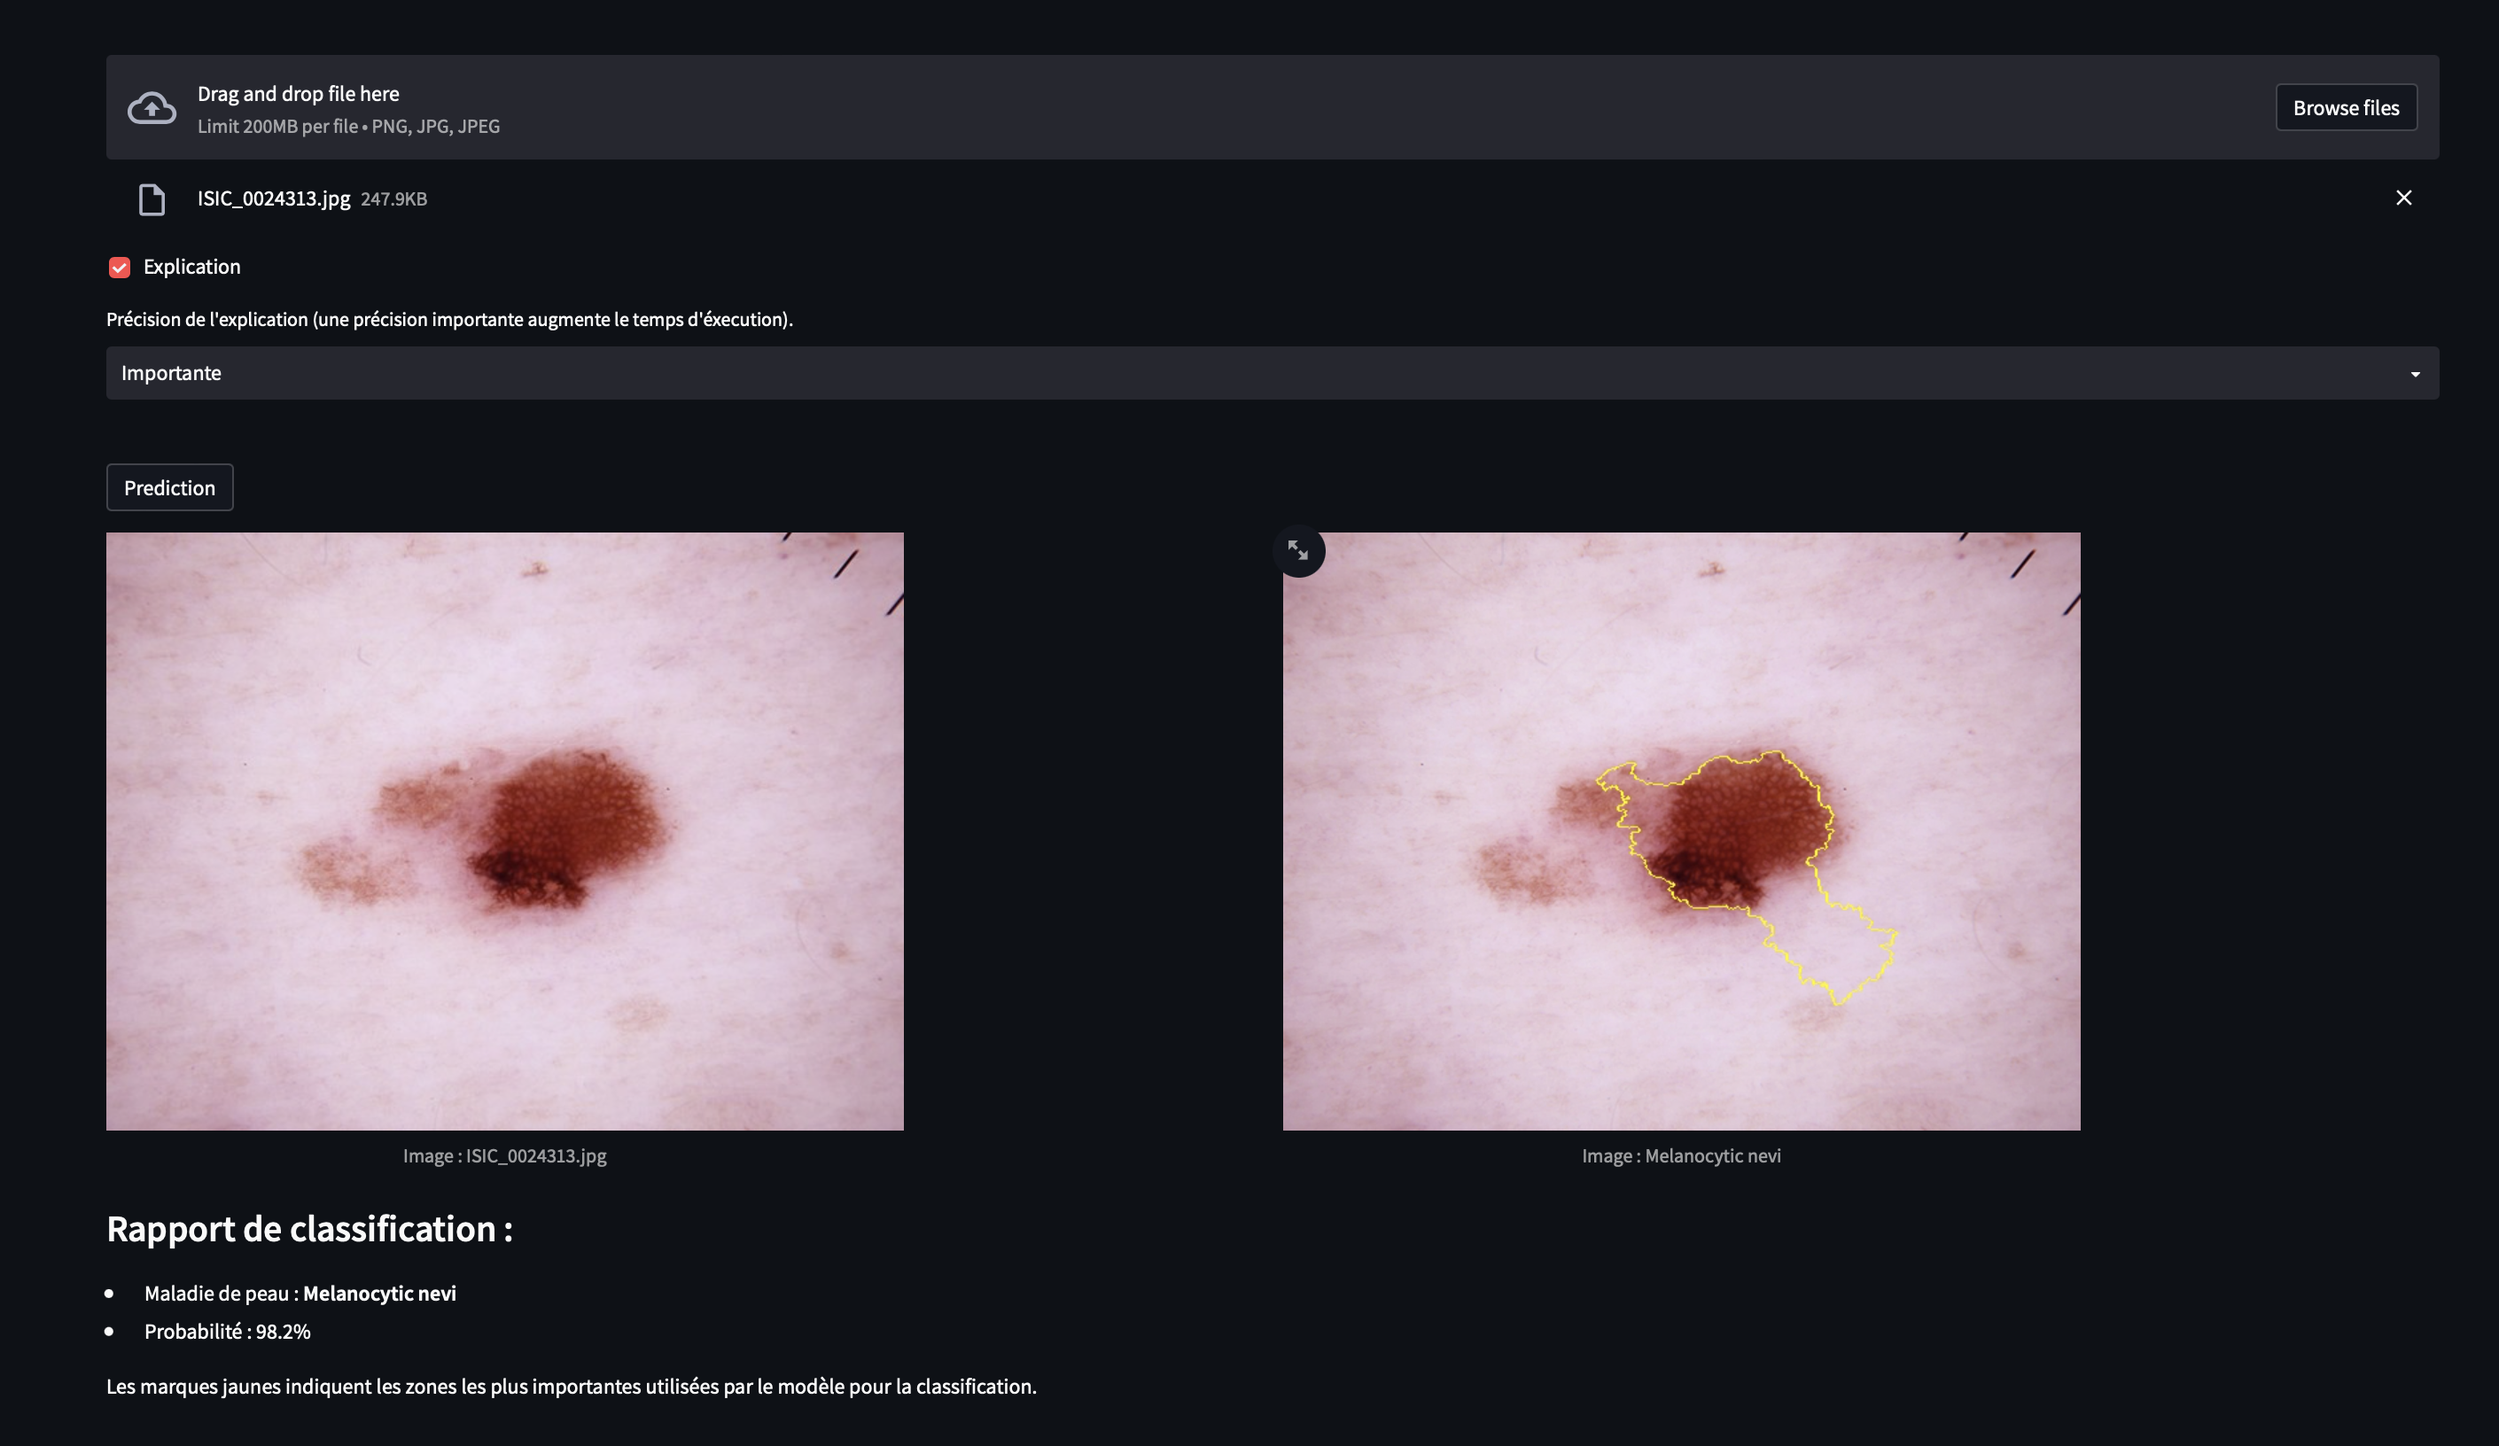
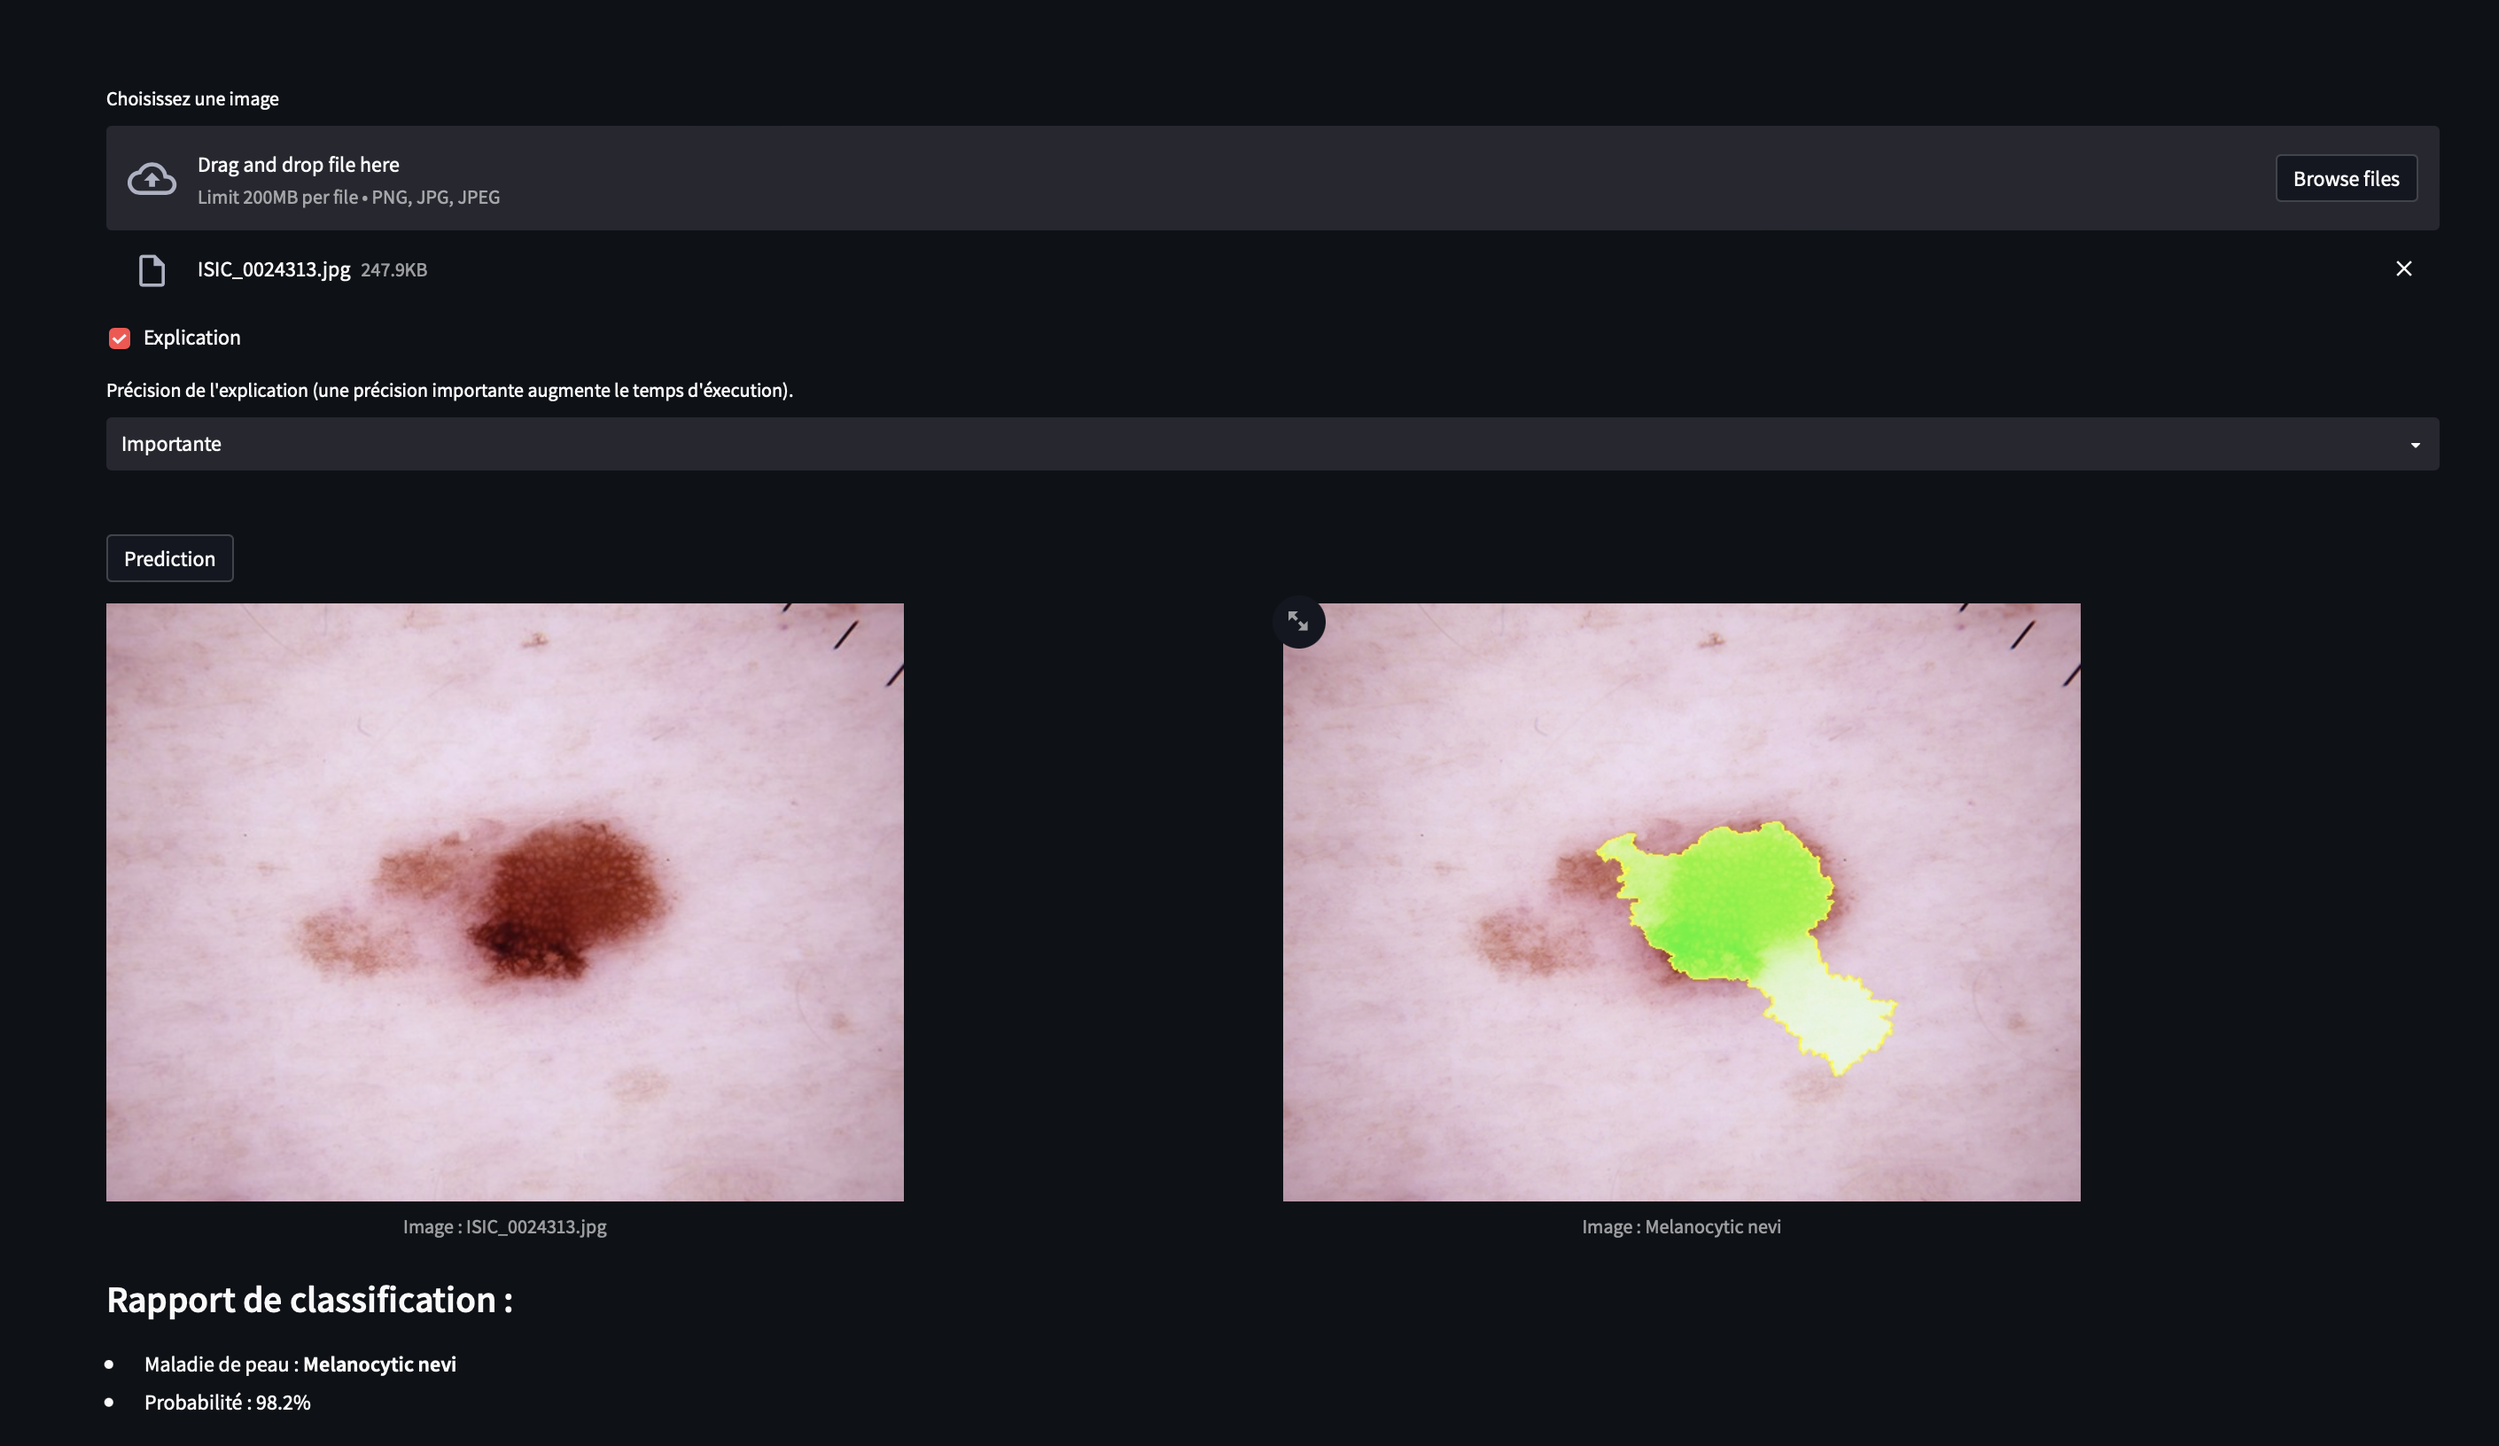
(update) readme

diff --git a/src/frontend.py b/src/frontend.py
@@ -56,6 +56,6 @@ if image is not None and skin_diseases is not None and proba_skin_diseases is no
         st.write(f"""
         ### Rapport de classification :
         - Maladie de peau : **{skin_diseases}**
-        - Probabilité : {round(proba_skin_diseases, 3) * 100}%
-        Les marques jaunes indiquent les zones les plus importantes utilisées par le modèle pour la classification.
+        - Probabilité : {round(proba_skin_diseases, 3) * 100}% 
+        Les formes vertes indiquent les zones qui ont été utilisées pour expliquer la décision du modèle.
                 """)

diff --git a/src/explain.py b/src/explain.py
@@ -38,7 +38,7 @@ class ExplainResults:
                                                           num_samples=num_samples) # number of images that will be sent to classification function
 
             temp, mask = explanation.get_image_and_mask(explanation.top_labels[0],
-                                                        positive_only=True,
+                                                        positive_only=False,
                                                         num_features=5,
                                                         hide_rest=False)
 

diff --git a/README.md b/README.md
@@ -4,23 +4,24 @@ Bienvenue dans le projet de classification des maladies de la peau ! Le but de c
 
 ### Examples de classification
 
-<img src="images/mn_1.png" style="float:left; width:49%; margin-right:1%;">
-<img src="images/frontend.png" style="float:left; width:49%;">  
+Les formes vertes indiquent les zones qui ont été utilisées pour expliquer la décision du modèle.
+
+<img src="images/mn_1.png" style="float:left; width:45%; margin-right:1%;">
+<img src="images/frontend.png" style="float:left; width:45%;">  
 
 
 ### Training data et performance du modèle
 
 Pour atteindre cet objectif, nous avons entraîné notre modèle en utilisant le jeu de données HAM10000 avec 2122 exemples d'entraînement et 519 exemples de validation. Nous avons réentraîné le modèle ResNet34 sur 15 époques (duré d'entrainememt ~1h15) et conservé le modèle le plus performant. Nous avons obtenu une précision de 80% sur les donées d'entraînement et de 70% sur les donées de test.
 
-Un modèle pré-entraîné est déjà disponible (et utilisé pour la classification), mais vous pouvez réentraîner le modèle en utilisant la commande suivante :
+Un modèle pré-entraîné est déjà disponible (et utilisé pour la classification), mais vous pouvez le ré-entraîner en utilisant la commande suivante :
 
 ```bash
 python main_train.py [-h] [--epochs EPOCHS] [--modelname MODELNAME] root
 ```
 
-Les arguments sont les suivants :
 - --epochs EPOCHS : Nombre d'époques d'apprentissage (par défaut : 15)
-- modelname MODELNAME : Nom du modèle à sauvegarder (par défaut : 'model/model_mlbio.pth')
+- --modelname MODELNAME : Nom du modèle à sauvegarder (par défaut : 'model/model_mlbio.pth')
 - root : chemin d'accès au répertoire contenant les images d'entraînement. Ce répertoire doit contenir un fichier nommé *HAM10000_metadata.csv* avec les métadonnées et deux sous-répertoires, *HAM10000_images_train* et *HAM10000_images_test*, contenant respectivement les images d'entraînement et de test.", example si-dessous :
 
 ```bash
@@ -38,7 +39,7 @@ root/
 
 ### Serveur
 
-Ce projet comprend un serveur qui permet aux utilisateurs, en envoyant leurs images, de classifier les maladies de peau en envoyant. Le serveur utilise le modèle entraîné pour classer les images et renvoie à l'utilisateur la classe prédite, sa probabilité et une explication de la décision du modèle. Le serveur peut être lancé à l'aide de la commande : 
+Ce projet comprend un serveur qui permet aux utilisateurs, en envoyant leurs images, de classifier les maladies de peau. Le serveur utilise le modèle entraîné pour classer les images et renvoie à l'utilisateur la classe prédite, sa probabilité et une explication de la décision du modèle. Le serveur peut être lancé à l'aide de la commande : 
 
 ```bash
 docker-compose up -d.
@@ -64,9 +65,8 @@ Les utilisateurs peuvent également classifier les images en utilisant la comman
 python client.py [-h] [--explain] [--precision PRECISION] image
 ```
 
-Les arguments sont les suivants :
 - --explain : Fournit une explication détaillée de la prédiction du modèle.
-- --precision PRECISION : Définit la précision de la probabilité dans la sortie. Les valeurs valides sont *Faible*, *Moyenne* et *Importante*. Une précision plus élevée donnera des résultats plus précis, mais augmentera également le temps d'exécution.
+- --precision PRECISION : Définit la précision de l'explication. Les valeurs valides sont *Faible*, *Moyenne* et *Importante*. Une précision plus élevée donnera des résultats plus précis, mais augmentera également le temps d'exécution.
 - image : Le chemin vers l'image ou les images à classifier.
 
 Par exemple, pour classer une image *test.jpg* avec une explication et une précision *Importante*, vous pouvez utiliser la commande suivante :
@@ -77,7 +77,7 @@ python client.py --explain --precision Importante test.jpg
 
 ### API
 
-Les utilisateurs peuvent également classifier des images à l'aide de l'API en effectuant une requête POST vers l'endpoint ""http://127.0.0.1:8089/predict" avec l'image jointe. Pour faire une demande à l'API, vous devez envoyer un objet JSON avec les champs suivants :
+Les utilisateurs peuvent également classifier des images à l'aide de l'API en effectuant une requête POST vers l'endpoint http://127.0.0.1:8089/predict avec l'image jointe. Pour faire une demande à l'API, vous devez envoyer un objet JSON avec les champs suivants :
 
 | Champ | Description | Obligatoire |
 | ----- | ----------- | ----------- |
@@ -118,9 +118,9 @@ En cas d'échec, le serveur renvoie un objet JSON au format suivant :
 
 ### Informations
 - Le temps d'éxecution d'une image avec une precision :
-  - Faible : ~15s
-  - Moyenne : ~1min
-  - Importante : ~5min
+  - Faible : ~15 secondes
+  - Moyenne : ~1 minute
+  - Importante : ~ 5 minutes
 
 ## Crédits
 
